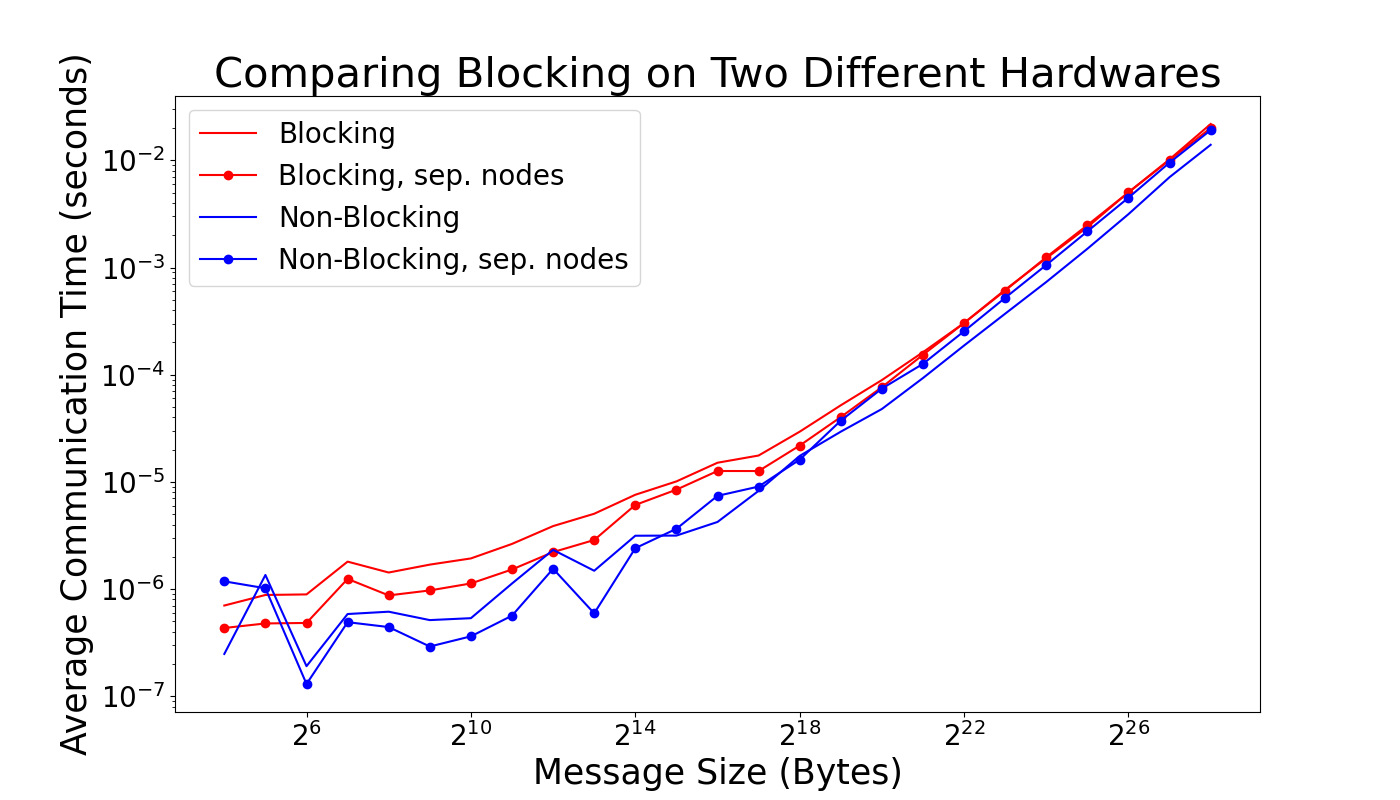
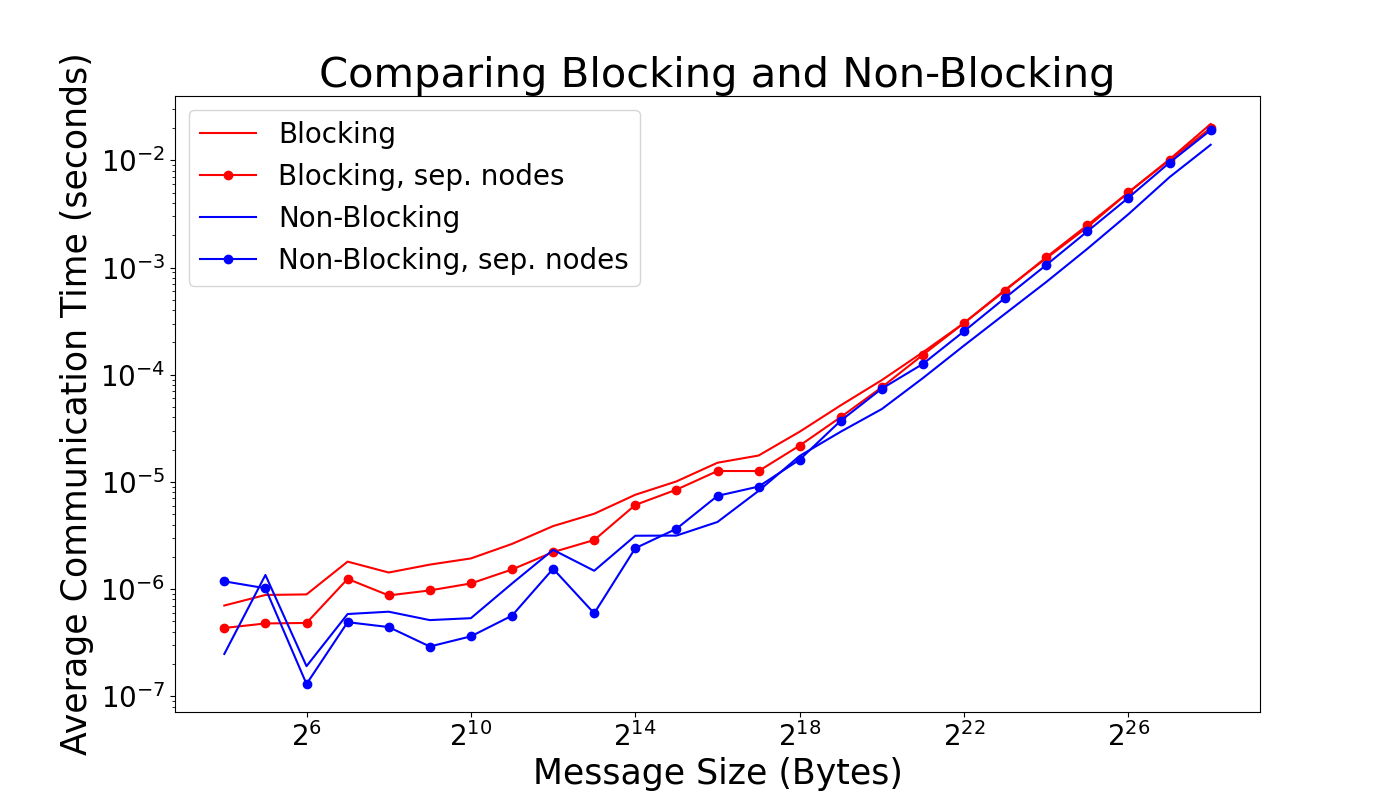
Fixing title in comparison plots

Changed region(s): [[0.1536, 0.0625, 0.8907, 0.125]]

diff --git a/PingPong.py b/PingPong.py
@@ -9,7 +9,7 @@ data3 = p.read_csv("Part2_Data.txt")
 data4 = p.read_csv("Part2_Data_sep_nodes.txt")
 
 fig, ax = plt.subplots(figsize =(14, 8))
-ax.set_title("Comparing Blocking on Two Different Hardwares",  fontsize = 30)
+ax.set_title("Comparing Blocking and Non-Blocking",  fontsize = 30)
 ax.set_ylabel("Average Communication Time (seconds)", fontsize = 25)
 ax.set_xlabel("Message Size (Bytes)",  fontsize = 25)
 ax.set_yscale('log')
@@ -23,7 +23,7 @@ plt.legend(fontsize= 20)
 plt.savefig("Pingpong.png")
 
 fig, ax = plt.subplots(figsize =(14, 8))
-ax.set_title("Comparing Blocking on Two Different Hardwares",  fontsize = 30)
+ax.set_title("Comparing Blocking and Non-Blocking",  fontsize = 30)
 ax.set_ylabel("Bandwidth", fontsize = 25)
 ax.set_xlabel("Message Size (Bytes)",  fontsize = 25)
 ax.set_yscale('log')
